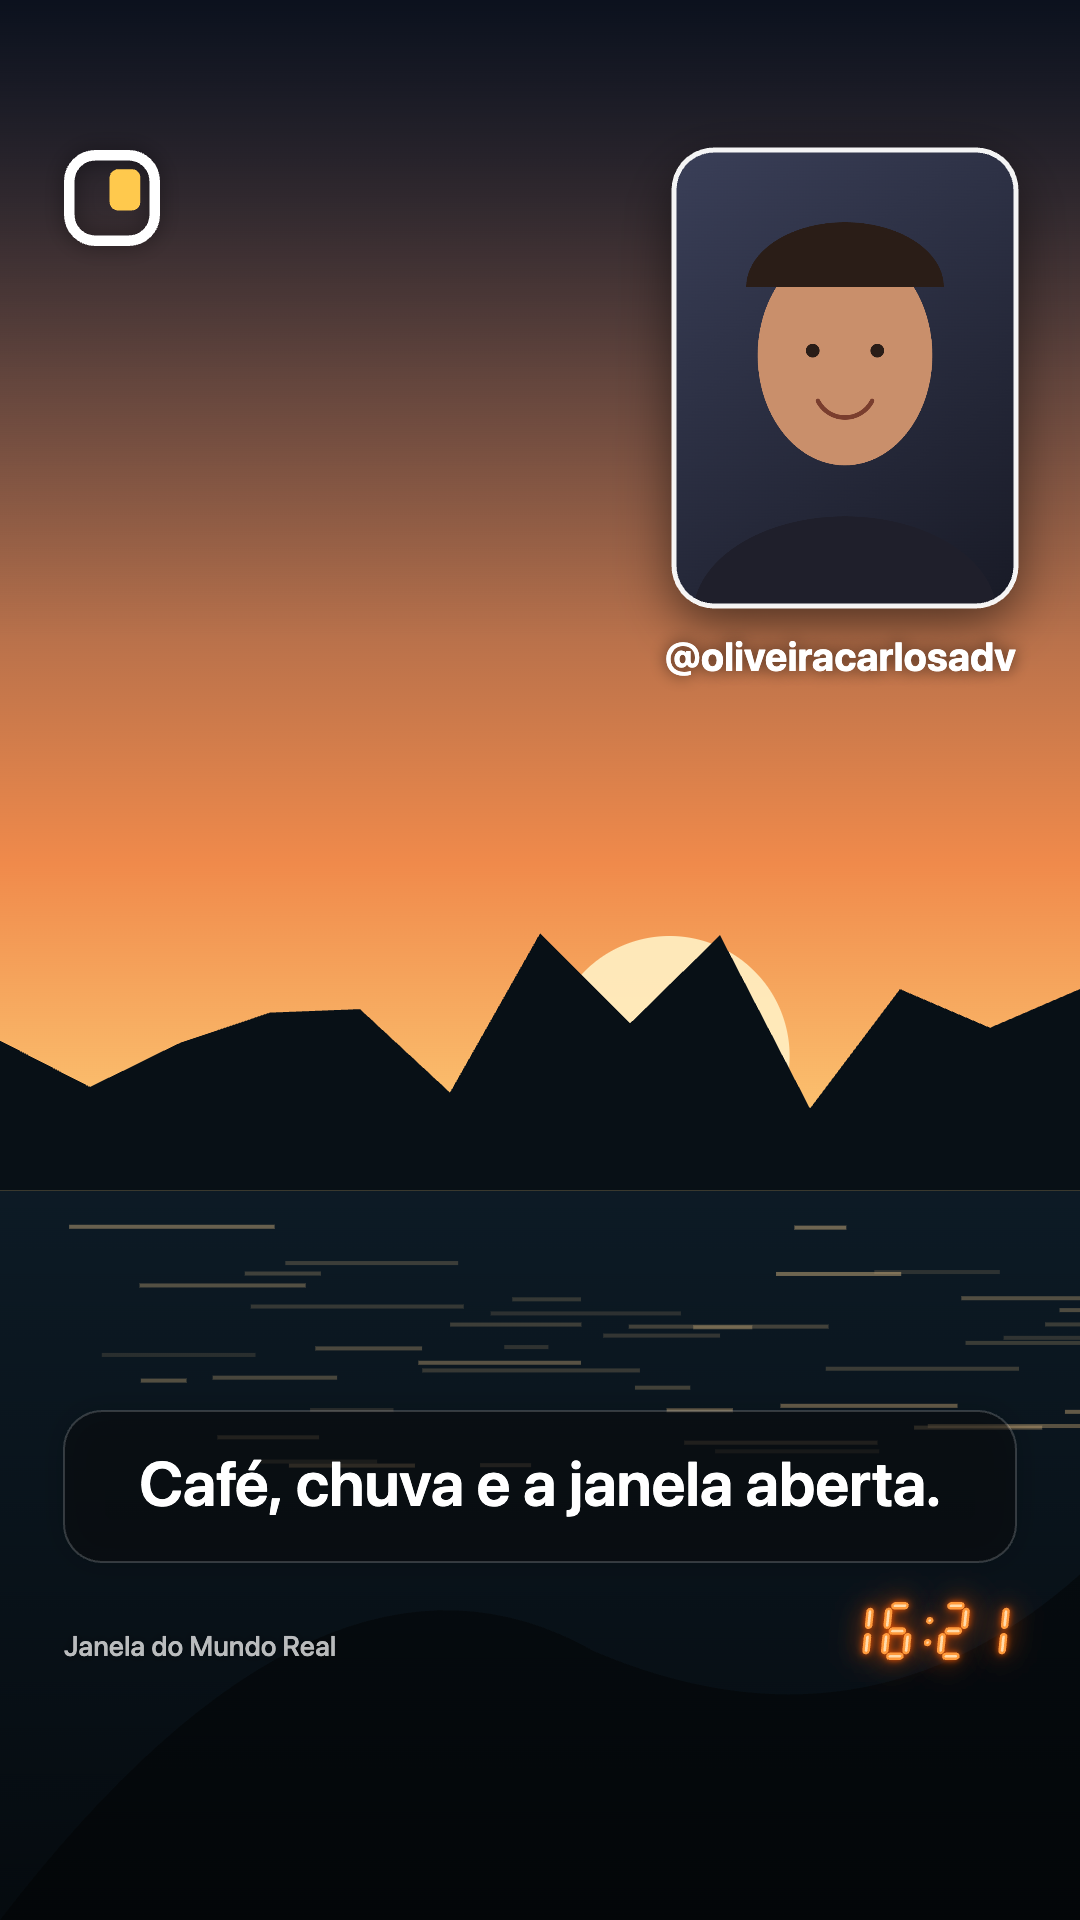
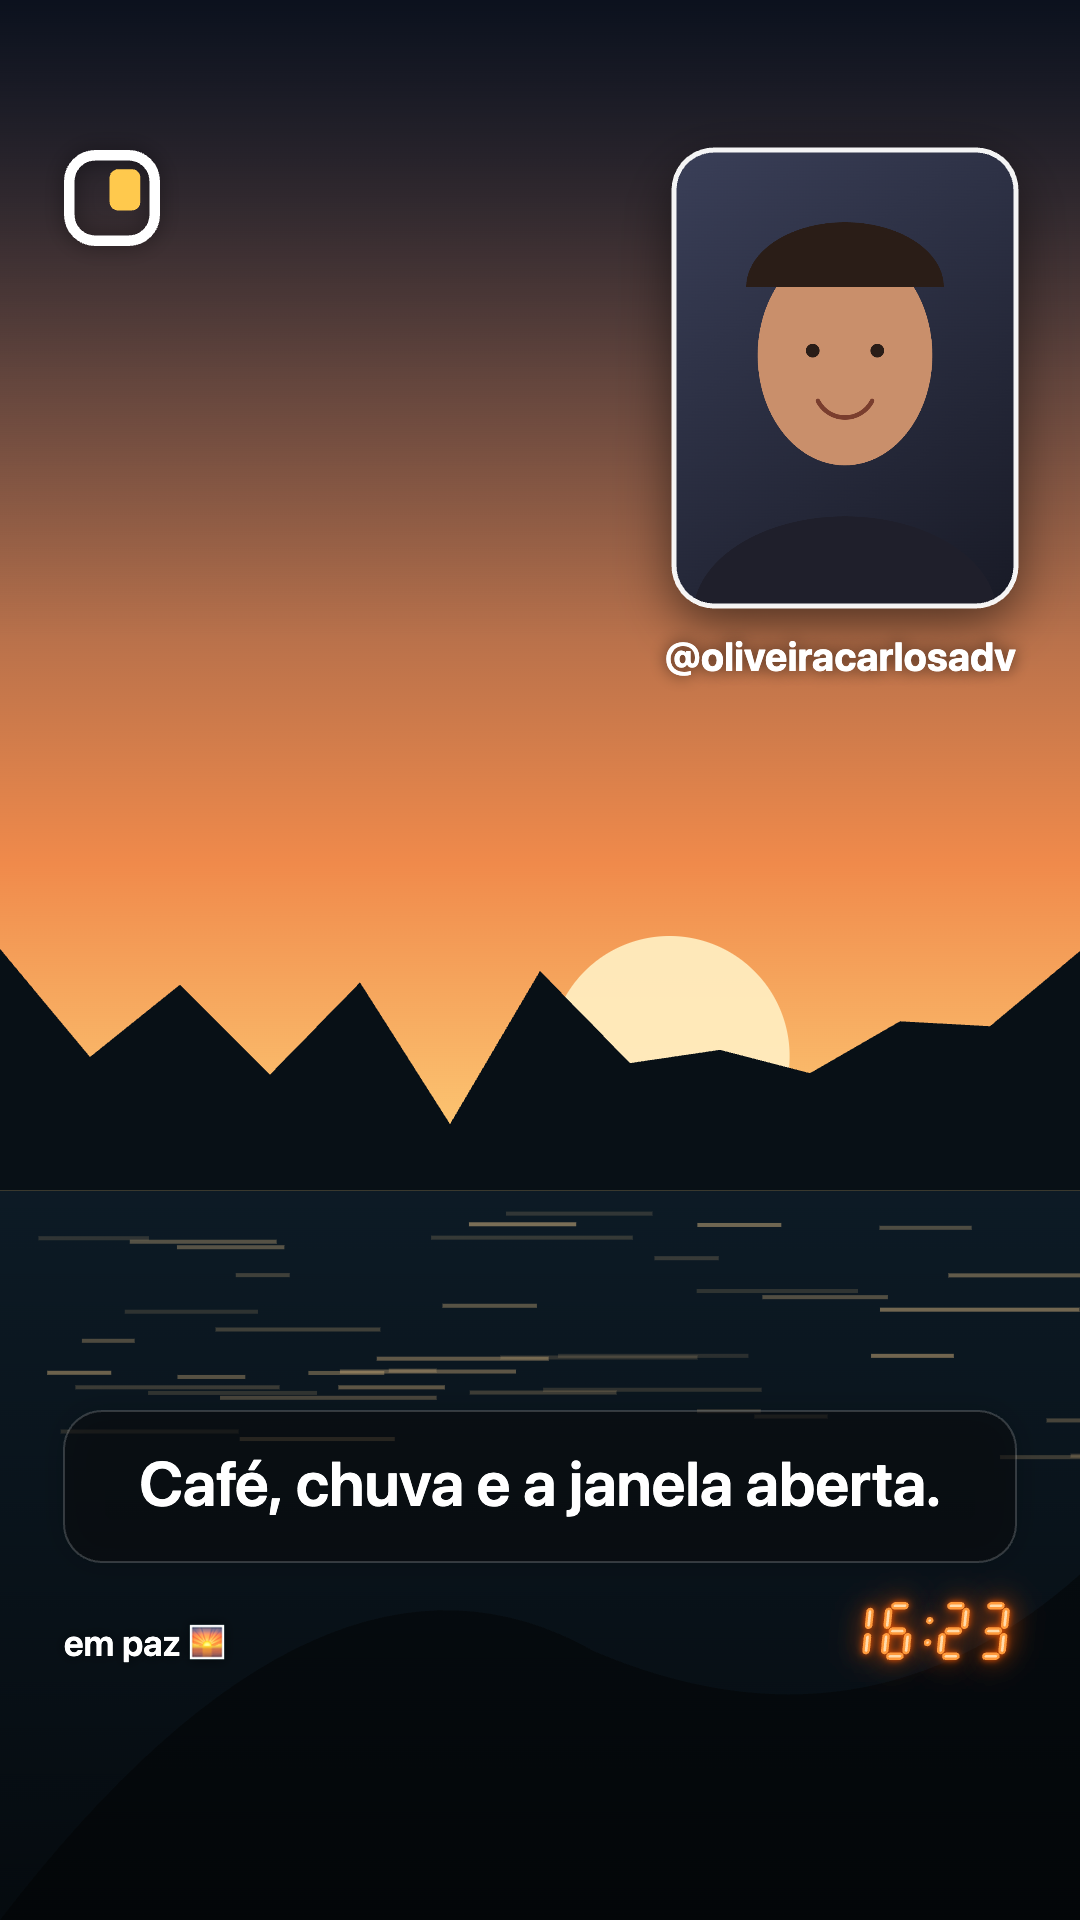
Adiciona MOOD, remove foto e traço amarelo do Story
- Campo MOOD (até 40 caracteres) substitui "Janela do Mundo Real" no Story
- @ abaixo da selfie sem foto de perfil; comentário sem barra âmbar
- Prints, imagem social e documentação atualizados

diff --git a/index.html b/index.html
@@ -248,7 +248,14 @@
         </label>
         <textarea id="comment" rows="2" maxlength="100" placeholder="O que essa janela mostra agora?"
           class="mt-2 w-full rounded-2xl bg-black/40 border border-neutral-800 px-3.5 py-3 text-base outline-none focus:border-amber-300 placeholder:text-neutral-600"></textarea>
-        <div class="mt-3 flex items-center gap-2">
+        <label for="mood" class="mt-4 flex items-center justify-between text-sm font-medium text-neutral-300">
+          <span class="tracking-[0.18em] font-bold">MOOD <span class="tracking-normal text-neutral-500 font-normal">· como você está se sentindo?</span></span>
+          <span id="moodCount" class="tabular-nums text-neutral-500">0/40</span>
+        </label>
+        <input id="mood" type="text" maxlength="40" placeholder="Ex.: grato, cansado, em paz ☕" enterkeyhint="done"
+          class="mt-2 w-full rounded-2xl bg-black/40 border border-neutral-800 px-3.5 py-3 text-base outline-none focus:border-amber-300 placeholder:text-neutral-600">
+        <p class="mt-1.5 text-xs text-neutral-500">Aparece no canto inferior esquerdo, no lugar de “Janela do Mundo Real”.</p>
+        <div class="mt-4 flex items-center gap-2">
           <span class="text-sm text-neutral-400 mr-1 shrink-0">Alinhamento:</span>
           <div class="grid grid-cols-4 gap-1.5 flex-1">
             <button data-align="justify" class="chip grid place-items-center rounded-xl border border-neutral-700 h-9" aria-pressed="false" aria-label="Justificado" title="Justificado"><svg class="h-4 w-4" viewBox="0 0 24 24" fill="none" stroke="currentColor" stroke-width="2.2" stroke-linecap="round"><path d="M4 6h16M4 10h16M4 14h16M4 18h16"/></svg></button>
@@ -613,7 +620,7 @@
     const token = ++state.flow;
     state.back = state.front = null;
     state.step = 1;
-    $('comment').value = ''; updateCount();
+    $('comment').value = ''; $('mood').value = ''; updateCount();
     setCamUI('back');
     show('camera');
     camLoading(true);
@@ -877,7 +884,8 @@
     const stamp = stampText(state.capturedAt);
     const stampBase = H - 260, stampH = 58;
     let bottomLimit = H - 260 + 8;
-    if (stamp) { drawRetro(x, stamp, W - M, stampBase, stampH); bottomLimit = stampBase - stampH - 40; }
+    let stampLeft = W - M;
+    if (stamp) { stampLeft = drawRetro(x, stamp, W - M, stampBase, stampH).left; bottomLimit = stampBase - stampH - 40; }
 
     // 5) caixa de comentário (até 100 caracteres, justificado, fonte adaptativa)
     const text = $('comment').value.trim().replace(/\s+/g, ' ').slice(0, 100);
@@ -897,13 +905,22 @@
       x.restore();
     }
 
-    // 6) assinatura discreta
+    // 6) MOOD (como o usuário está se sentindo) — ou o slogan, se vazio
+    const mood = $('mood').value.trim().replace(/\s+/g, ' ').slice(0, 40);
     x.save();
-    x.font = `500 28px ${FONT}`;
-    x.fillStyle = 'rgba(255,255,255,.72)';
-    x.shadowColor = 'rgba(0,0,0,.5)'; x.shadowBlur = 10;
+    x.shadowColor = 'rgba(0,0,0,.55)'; x.shadowBlur = 12;
     x.textBaseline = 'alphabetic';
-    x.fillText('Janela do Mundo Real', M, stamp ? stampBase - 4 : H - 252);
+    const moodY = stamp ? stampBase - 4 : H - 252;
+    const moodMax = (stamp ? stampLeft - 40 : W - M) - M;
+    if (mood) {
+      x.font = `600 36px ${FONT}`;
+      x.fillStyle = '#fff';
+      x.fillText(fit(x, mood, moodMax), M, moodY);
+    } else {
+      x.font = `500 28px ${FONT}`;
+      x.fillStyle = 'rgba(255,255,255,.72)';
+      x.fillText('Janela do Mundo Real', M, moodY);
+    }
     x.restore();
 
     return c;
@@ -929,8 +946,13 @@
 
   /* ---------------- edição na pré-visualização ---------------- */
   let commentTimer;
-  function updateCount() { $('commentCount').textContent = `${$('comment').value.length}/100`; }
+  function updateCount() {
+    $('commentCount').textContent = `${$('comment').value.length}/100`;
+    $('moodCount').textContent = `${$('mood').value.length}/40`;
+  }
   $('comment').addEventListener('input', () => { updateCount(); clearTimeout(commentTimer); commentTimer = setTimeout(render, 250); });
+  $('mood').addEventListener('input', () => { updateCount(); clearTimeout(commentTimer); commentTimer = setTimeout(render, 250); });
+  $('mood').addEventListener('keydown', (e) => { if (e.key === 'Enter') e.target.blur(); });
   function syncChips() {
     $('chipDate').setAttribute('aria-pressed', String(state.prefs.date));
     $('chipTime').setAttribute('aria-pressed', String(state.prefs.time));

diff --git a/docs/MANUAL-DE-USO.md b/docs/MANUAL-DE-USO.md
@@ -105,6 +105,10 @@ O Story aparece pronto. Abaixo dele você personaliza, e a imagem é atualizada 
 O contador mostra quantos caracteres você usou. A fonte é **adaptativa**: textos curtos saem grandes; textos
 longos diminuem para caber em até cerca de quatro linhas.
 
+**MOOD (opcional, até 40 caracteres)**
+Escreva como você está se sentindo (ex.: “em paz 🌅”, “cansado, mas feliz”). O MOOD aparece no canto
+inferior esquerdo do Story, **no lugar** da frase “Janela do Mundo Real”. Deixe vazio para manter a frase.
+
 **Alinhamento**
 
 | Ícone | Opção | Resultado |
@@ -134,7 +138,7 @@ A OKENA lembra o alinhamento e o carimbo que você escolheu para os próximos St
 | Seu @ | Logo abaixo da selfie, alinhado à direita dela |
 | Comentário | Caixa translúcida na parte de baixo |
 | Data / hora | Canto inferior direito, estilo LED retrô |
-| “Janela do Mundo Real” | Canto inferior esquerdo, discreto |
+| MOOD (ou “Janela do Mundo Real”, se vazio) | Canto inferior esquerdo |
 
 Os elementos ficam afastados das bordas de cima e de baixo para não ficarem escondidos pela barra do Instagram.
 

diff --git a/README.md b/README.md
@@ -30,6 +30,7 @@ o WhatsApp ou a galeria, com:
 - o seu **@** logo abaixo da selfie;
 - um **comentário de até 100 caracteres**, com fonte que se ajusta ao tamanho do texto e alinhamento
   **justificado, à esquerda, centralizado ou à direita**;
+- o seu **MOOD** (como você está se sentindo, até 40 caracteres) no canto inferior esquerdo;
 - **data e/ou hora** no estilo do carimbo das câmeras de filme (display de LED laranja);
 - o ícone da OKENA como marca d'água discreta.
 
@@ -62,7 +63,7 @@ Canvas API.
 2. Preencha nome completo e nome de usuário (a foto de perfil é opcional).
 3. Toque em **Abrir a janela**, permita a câmera e capture a vista.
 4. Sorria: a selfie dispara sozinha depois de 5… 4… 3… 2… 1…
-5. Escreva um comentário, escolha o alinhamento, ligue ou desligue **Data** e **Hora**.
+5. Escreva um comentário e o seu MOOD, escolha o alinhamento, ligue ou desligue **Data** e **Hora**.
 6. Toque em **Compartilhar** (Instagram, WhatsApp, Fotos…) ou **Baixar**.
 
 O passo a passo completo, com dicas e solução de problemas, está no **[Manual de uso](docs/MANUAL-DE-USO.md)**.

diff --git a/docs/DOCUMENTACAO-TECNICA.md b/docs/DOCUMENTACAO-TECNICA.md
@@ -100,7 +100,7 @@ Constantes: `W = 1080`, `H = 1920`, margem `M = 64`, topo seguro `SAFE_TOP = 150
 | 5 | @ do usuário | Abaixo da selfie, alinhado à direita dela, 40 px, peso 700; trunca com “…” |
 | 6 | Carimbo retrô | Display de 7 segmentos desenhado à mão, base em `H − 260`, altura 58 px, alinhado à direita |
 | 7 | Comentário | Caixa translúcida acima do carimbo, largura `W − 2M`, borda fina |
-| 8 | Assinatura | “Janela do Mundo Real”, 28 px, canto inferior esquerdo |
+| 8 | MOOD | Texto do campo MOOD (até 40 caracteres), 36 px peso 600, canto inferior esquerdo, truncado antes do carimbo. Vazio → “Janela do Mundo Real”, 28 px, 72 % de opacidade |
 
 ### Comentário: fonte adaptativa + alinhamento
 

diff --git a/CHANGELOG.md b/CHANGELOG.md
@@ -7,6 +7,7 @@ Primeira versão pública.
 - Captura em duas etapas: vista (câmera traseira, manual) e selfie (câmera frontal, automática após 5 s).
 - Story 1080 × 1920 em PNG: vista em tela cheia, selfie 3:4 com borda e sombra, @ abaixo da selfie, ícone como marca d'água.
 - Comentário de até 100 caracteres com fonte adaptativa e alinhamento justificado, à esquerda, centralizado ou à direita.
+- MOOD: campo “como você está se sentindo” que aparece no lugar de “Janela do Mundo Real”.
 - Carimbo de data e/ou hora em estilo LED de câmera de filme.
 - Perfil local com foto, nome completo e nome de usuário; tela de Configurações.
 - Compartilhar (Web Share API) e baixar.
